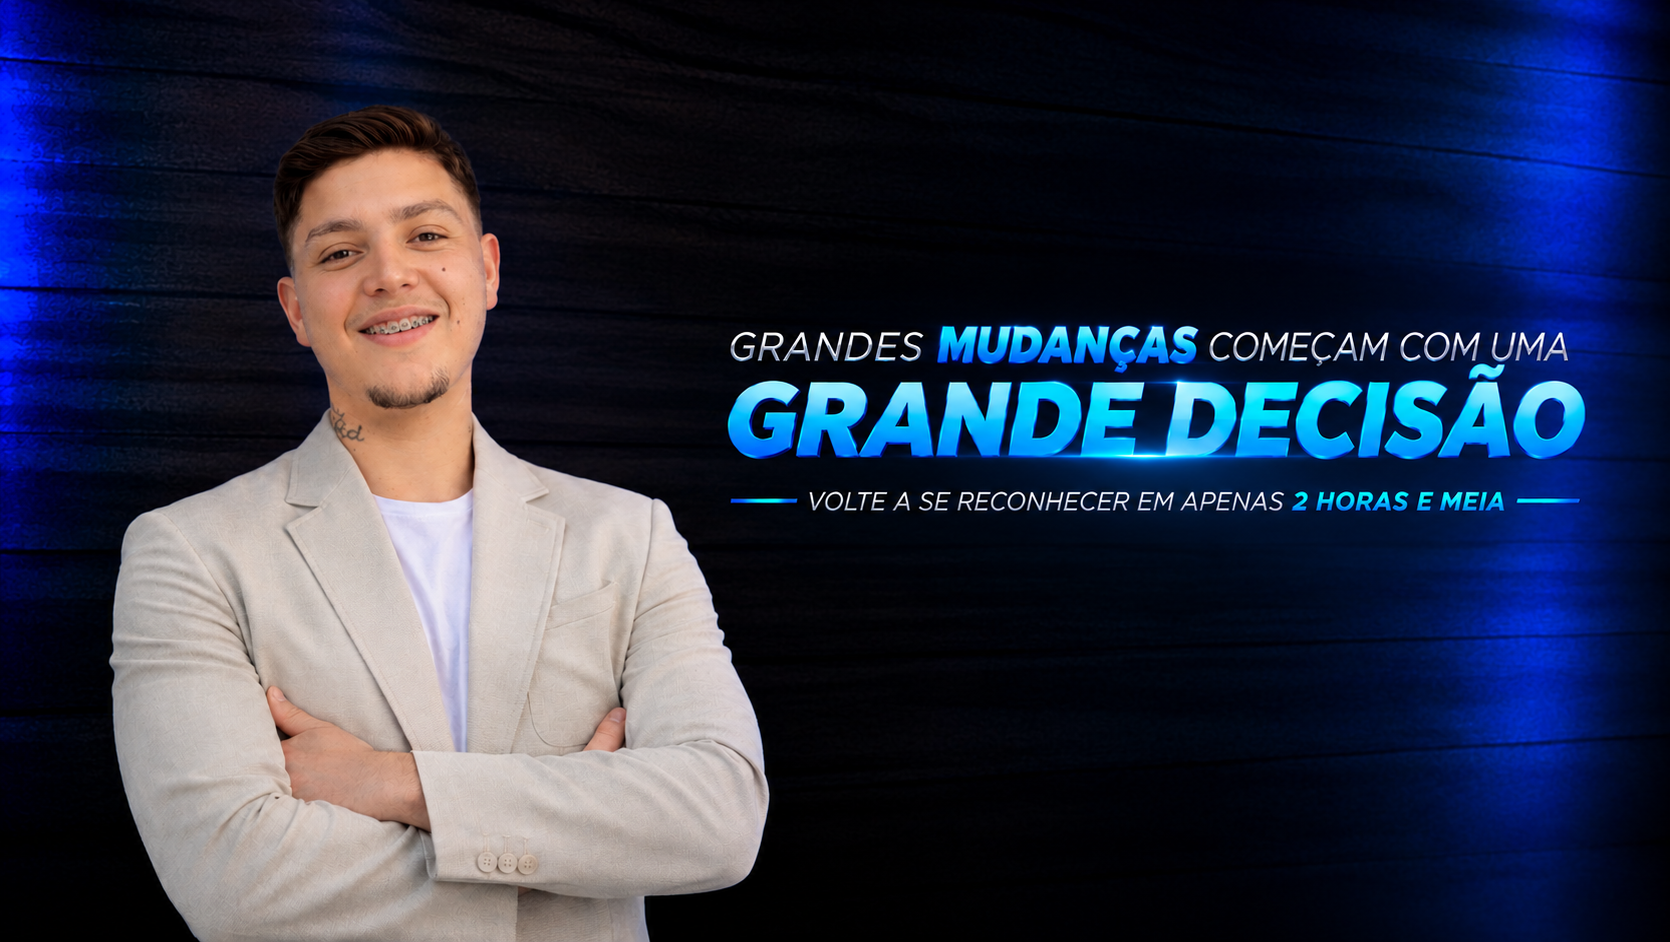
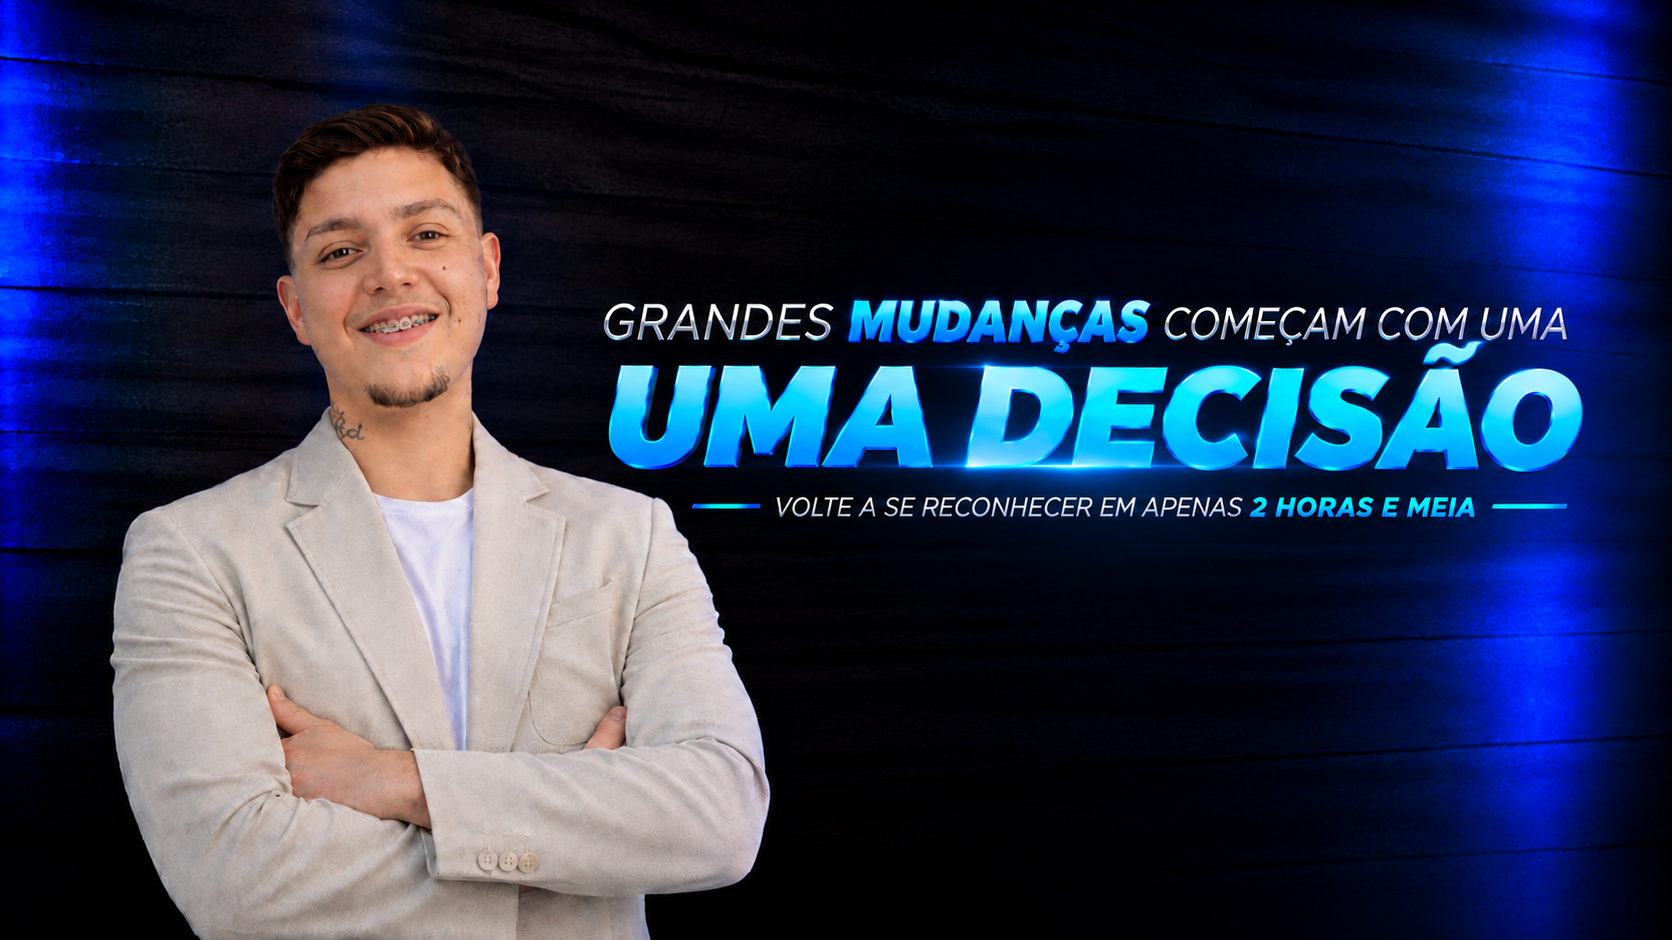
Inserção de um bloco contendo um resultado e uma chamativa para a seção dedicada aos resulltados

diff --git a/css/style.css b/css/style.css
@@ -10,17 +10,29 @@ body{
     background-color:#020b18;
 }
 
+main{
+    background:linear-gradient(
+        180deg,
+        #06152a 0%,
+        #051326 30%,
+        #030e1d 68%,
+        #020914 100%
+    );
+}
+
 .hero{
     position:relative;
     min-height:100vh;
     overflow:hidden;
-    background-color:#020b18;
+    background:transparent;
 }
 
 .hero-image{
     position:absolute;
     inset:0;
     display:block;
+    -webkit-mask-image:linear-gradient(to bottom, #000 68%, transparent 100%);
+    mask-image:linear-gradient(to bottom, #000 68%, transparent 100%);
 }
 
 .hero-image img{
@@ -34,7 +46,6 @@ body{
 .hero::after{
     position:absolute;
     inset:0;
-    background:linear-gradient(to bottom, rgba(2,11,24,0) 55%, #020b18 100%);
     content:"";
     pointer-events:none;
 }
@@ -45,7 +56,7 @@ body{
     align-items:center;
     gap:clamp(36px, 6vw, 88px);
     padding:96px 8%;
-    background-color:#020b18;
+    background:transparent;
 }
 
 .solucao-pilares{
@@ -169,7 +180,7 @@ body{
     position:relative;
     overflow:hidden;
     padding:clamp(72px, 9vw, 128px) 8%;
-    background:linear-gradient(180deg, #020b18 0%, #06152a 100%);
+    background:transparent;
 }
 
 .autoestima-intro{
@@ -232,6 +243,131 @@ body{
     line-height:1.7;
 }
 
+.destaque-resultados{
+    display:grid;
+    grid-template-columns:minmax(0, 1.15fr) minmax(0, 0.85fr);
+    align-items:center;
+    gap:clamp(40px, 7vw, 96px);
+    padding:clamp(72px, 9vw, 120px) 8%;
+    background:transparent;
+}
+
+.resultado-comparativo{
+    position:relative;
+    display:grid;
+    grid-template-columns:repeat(2, minmax(0, 1fr));
+    gap:12px;
+    padding:12px;
+    border:1px solid rgba(216,183,122,0.48);
+    border-radius:14px;
+    background:rgba(255,255,255,0.035);
+    box-shadow:0 24px 70px rgba(0,0,0,0.28);
+}
+
+.resultado-foto{
+    position:relative;
+    min-width:0;
+    overflow:hidden;
+    border-radius:8px;
+    background:#0b1a2d;
+}
+
+.resultado-foto img{
+    display:block;
+    width:100%;
+    aspect-ratio:4 / 3;
+    object-fit:cover;
+}
+
+.resultado-foto figcaption{
+    position:absolute;
+    bottom:12px;
+    left:12px;
+    padding:6px 12px;
+    border:1px solid rgba(255,255,255,0.28);
+    border-radius:20px;
+    background:rgba(2,11,24,0.78);
+    color:#fff;
+    font-size:13px;
+    font-weight:700;
+}
+
+.resultado-aviso{
+    position:absolute;
+    top:22px;
+    right:22px;
+    padding:6px 10px;
+    border-radius:4px;
+    background:rgba(2,11,24,0.78);
+    color:#e3c894;
+    font-size:10px;
+    font-weight:700;
+    letter-spacing:0.08em;
+    text-transform:uppercase;
+}
+
+.destaque-resultados-conteudo{
+    max-width:500px;
+}
+
+.destaque-resultados-etiqueta{
+    margin-bottom:18px;
+    color:#d8b77a;
+    font-size:13px;
+    font-weight:700;
+    letter-spacing:0.09em;
+    text-transform:uppercase;
+}
+
+.destaque-resultados-conteudo h2{
+    color:#fff;
+    font-family:'Bodoni Moda', Georgia, serif;
+    font-size:clamp(36px, 4.2vw, 56px);
+    font-weight:600;
+    line-height:1.12;
+}
+
+.destaque-resultados-conteudo > p:not(.destaque-resultados-etiqueta){
+    margin-top:18px;
+    color:#c5cfdb;
+    font-size:17px;
+    line-height:1.7;
+}
+
+.destaque-resultados-link{
+    display:inline-flex;
+    align-items:center;
+    gap:14px;
+    margin-top:30px;
+    padding:14px 20px;
+    border:1px solid #d8b77a;
+    border-radius:3px;
+    color:#f1d9a9;
+    font-size:15px;
+    font-weight:700;
+    text-decoration:none;
+    transition:background-color 0.2s ease, color 0.2s ease;
+}
+
+.destaque-resultados-link span{
+    font-size:21px;
+    transition:transform 0.2s ease;
+}
+
+.destaque-resultados-link:hover{
+    background:#d8b77a;
+    color:#020b18;
+}
+
+.destaque-resultados-link:hover span{
+    transform:translateX(4px);
+}
+
+.destaque-resultados-link:focus-visible{
+    outline:2px solid #fff;
+    outline-offset:4px;
+}
+
 @media (max-width:800px){
     .site-content{
         grid-template-columns:1fr;
@@ -250,6 +386,17 @@ body{
     .autoestima{
         padding-right:7%;
         padding-left:7%;
+    }
+
+    .destaque-resultados{
+        grid-template-columns:1fr;
+        gap:40px;
+        padding-right:7%;
+        padding-left:7%;
+    }
+
+    .destaque-resultados-conteudo{
+        max-width:650px;
     }
 
     .autoestima-beneficios{
@@ -276,6 +423,33 @@ body{
 
     .autoestima{
         padding:56px 6%;
+    }
+
+    .destaque-resultados{
+        gap:32px;
+        padding:56px 6%;
+    }
+
+    .resultado-comparativo{
+        gap:7px;
+        padding:7px;
+    }
+
+    .resultado-foto figcaption{
+        bottom:8px;
+        left:8px;
+        padding:5px 9px;
+        font-size:11px;
+    }
+
+    .resultado-aviso{
+        top:14px;
+        right:14px;
+        font-size:9px;
+    }
+
+    .destaque-resultados-conteudo h2{
+        font-size:36px;
     }
 
     .autoestima-etiqueta{
@@ -484,10 +658,6 @@ body{
         aspect-ratio:941 / 1301;
     }
 
-    .hero::after{
-        background:linear-gradient(to bottom, transparent 88%, rgba(2,11,24,0.35) 96%, #020b18 100%);
-    }
-
     .hero-image img{
         object-fit:cover;
         object-position:center top;
@@ -529,9 +699,6 @@ body{
         object-position:center top;
     }
 
-    .hero::after{
-        background:linear-gradient(to bottom, transparent 88%, rgba(2,11,24,0.35) 96%, #020b18 100%);
-    }
 }
 
 @media (min-width:481px) and (max-width:1440px) and (orientation:landscape){
@@ -554,9 +721,6 @@ body{
         object-position:center top;
     }
 
-    .hero::after{
-        background:linear-gradient(to bottom, transparent 88%, rgba(2,11,24,0.35) 96%, #020b18 100%);
-    }
 }
 
 @media (min-width:481px) and (max-width:800px){

diff --git a/index.html b/index.html
@@ -82,6 +82,27 @@
                 <a class="solucao-link" href="contato.html">Converse com a nossa equipe <span aria-hidden="true">&rarr;</span></a>
             </div>
         </section>
+        <section class="destaque-resultados" aria-labelledby="resultados-destaque-titulo">
+            <div class="resultado-comparativo">
+                <figure class="resultado-foto">
+                    <img src="img/resultado1antes.jpg" alt="Imagem temporária de paisagem representando o antes">
+                    <figcaption>Antes</figcaption>
+                </figure>
+                <figure class="resultado-foto">
+                    <img src="img/resultado1depois.jpg" alt="Imagem temporária de paisagem representando o depois">
+                    <figcaption>Depois</figcaption>
+                </figure>
+                <p class="resultado-aviso">Imagens temporárias</p>
+            </div>
+            <div class="destaque-resultados-conteudo">
+                <p class="destaque-resultados-etiqueta">Inspire-se com as possibilidades</p>
+                <h2 id="resultados-destaque-titulo">Venha conhecer mais resultados</h2>
+                <p>Explore nossa galeria e veja outros registros de transformações.</p>
+                <a class="destaque-resultados-link" href="resultados.html">
+                    Ver todos os resultados <span aria-hidden="true">&rarr;</span>
+                </a>
+            </div>
+        </section>
         <section class="autoestima" aria-labelledby="autoestima-titulo">
             <div class="autoestima-intro">
                 <p class="autoestima-etiqueta">O impacto também é emocional</p>
